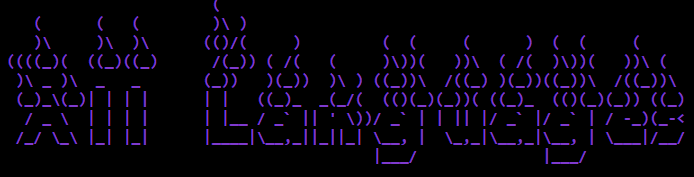
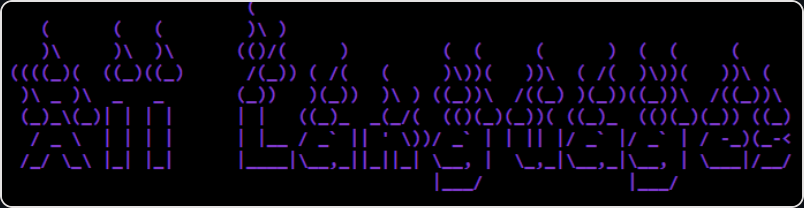
add border

diff --git a/README.md b/README.md
@@ -17,7 +17,9 @@
         <tr>
             <td colspan="4" style=" align-items: center; text-align: center; color: #7F3ACE; background-color: black; border-radius: 10px; border: solid #E4E2E2 2px; padding: 2em;">
                 <div style="display: flex; flex-direction: column; align-items: center;">
-                    <div><img style="width: 40em;" src="./name.png" alt="All Languages"></div>
+                    <div>
+                        <img style="width: 40em;" src="./name.png" alt="All Languages">
+                    </div>
                     <div style="display: flex; justify-content: space-between; align-items: center; width: 95%;">
                         <img style="width: 4em;" src="./python.png" alt="Python">
                         <img style="width: 4em;" src="./html5.png" alt="HTML5">
